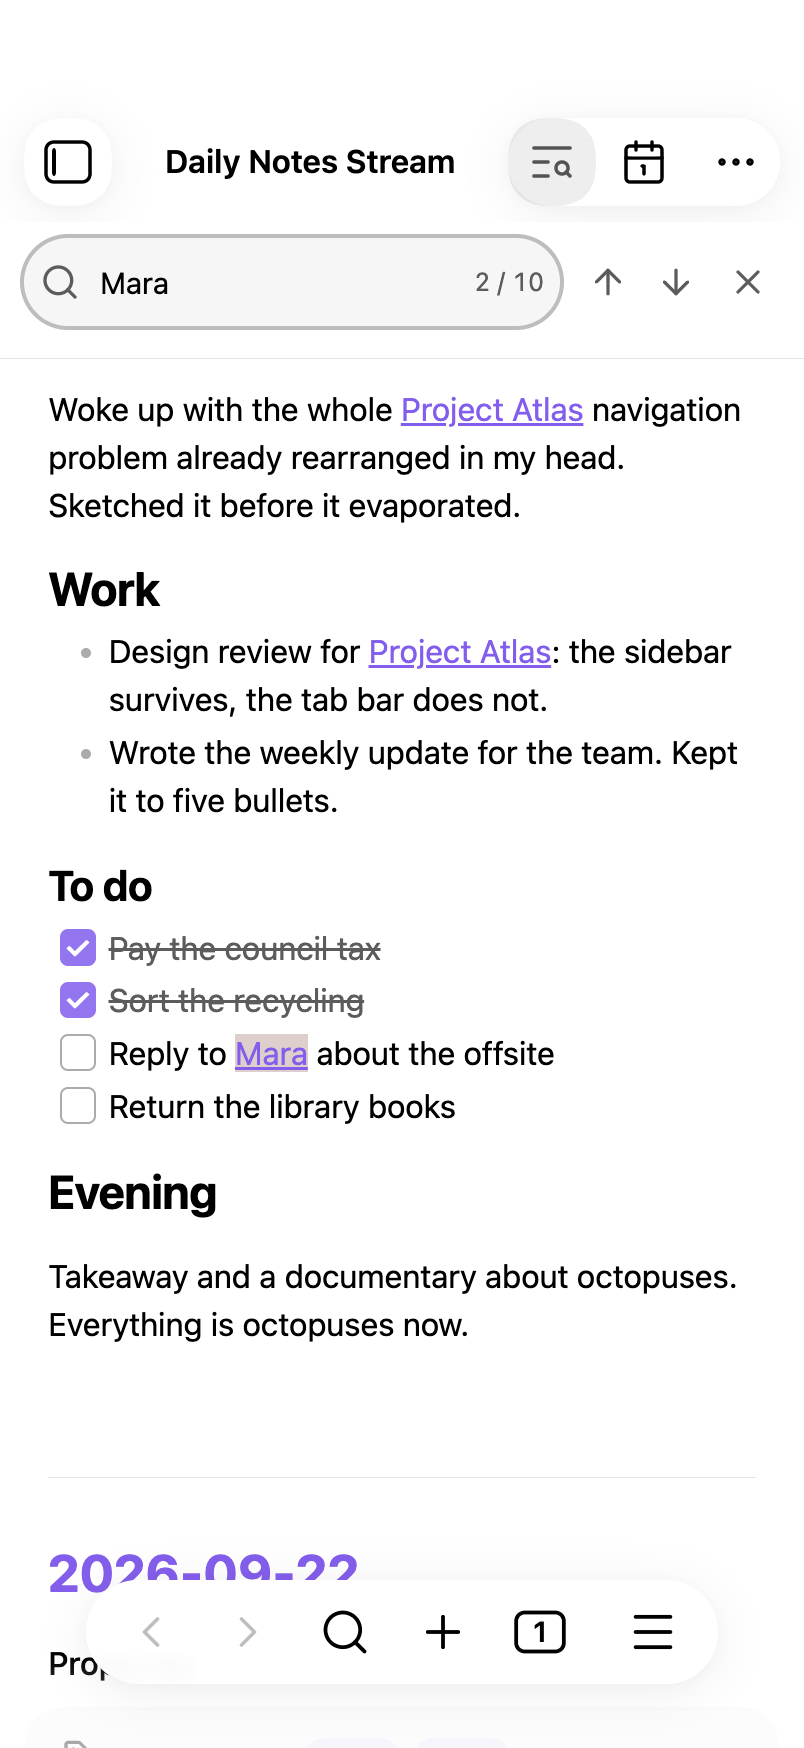
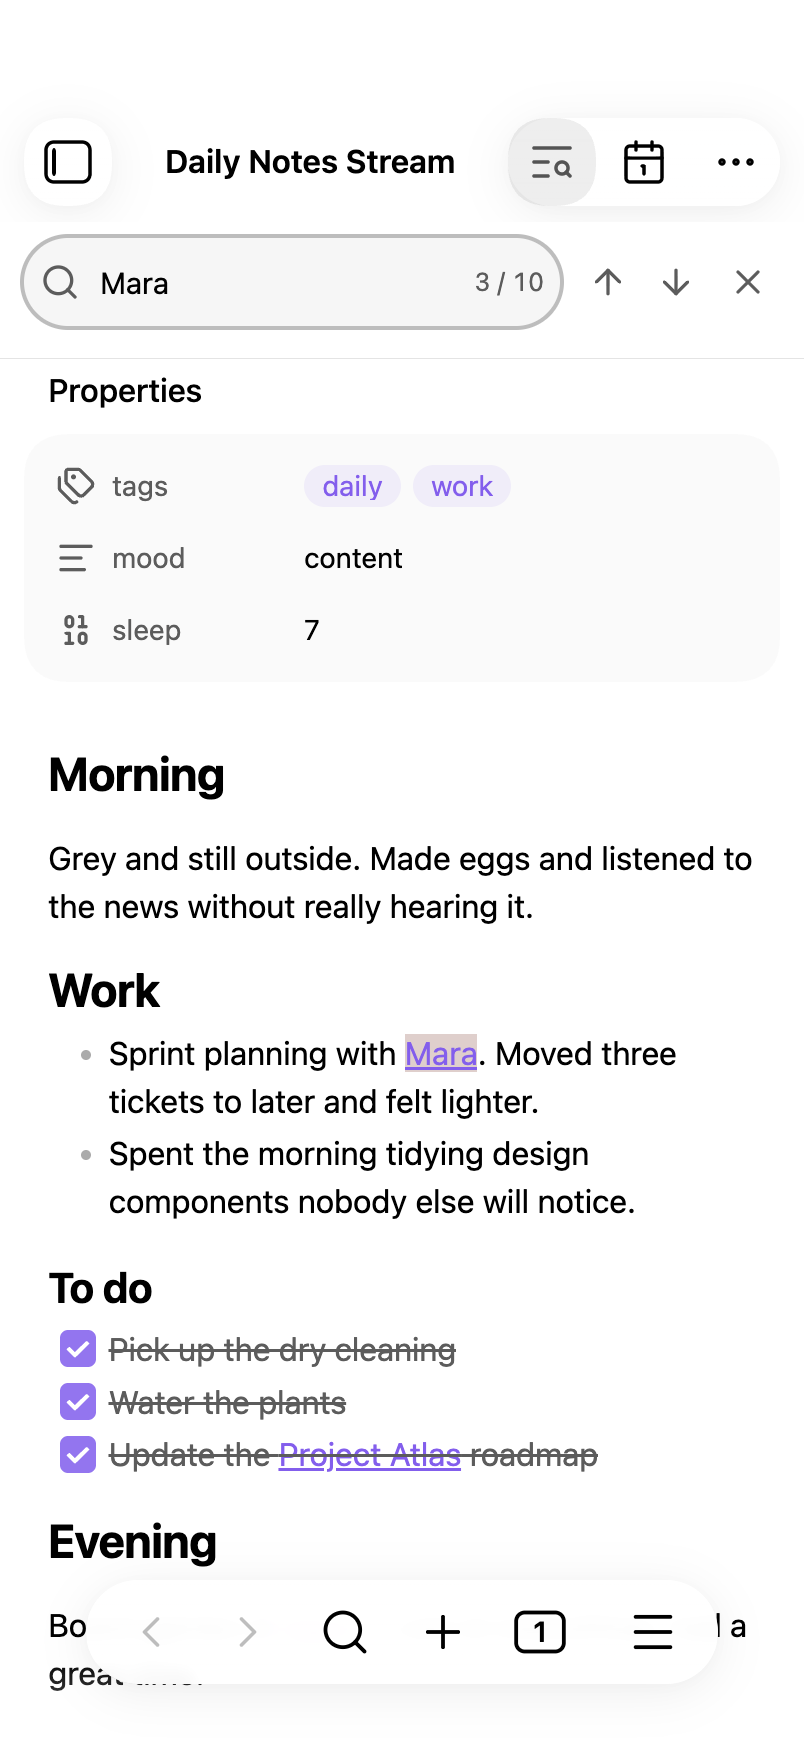
docs: show the README's stills as the stream's window, framed from a date
The stream itself leads in place of a Base; each desktop still is the
pane in a 904x960 window, from a note's date to its feature's end (D-126).

diff --git a/e2e-tests/screenshots.spec.ts b/e2e-tests/screenshots.spec.ts
@@ -1,7 +1,9 @@
-import type { Page, TestInfo } from "@playwright/test";
+import type { Locator, Page, TestInfo } from "@playwright/test";
 import { test, expect, openStream } from "./obsidian";
+import { tmpdir } from "os";
 import { join } from "path";
 import { OUT, prepareDemo, showLightTheme } from "./demo";
+import { windowStill } from "../scripts/window-still.mjs";
 
 /**
  * Captures the README's stills from the real app rather than a mockup, one per
@@ -22,50 +24,152 @@ async function showStream(page: Page): Promise<void> {
     await below.evaluate((block) => block.firstElementChild?.scrollIntoView({ block: "center" }));
 }
 
-async function capture(page: Page, name: string, testInfo: TestInfo): Promise<void> {
-    await page.waitForTimeout(1000);
-    const layout = testInfo.project.name === "mobile" ? "phone" : "desktop";
-    const path = join(OUT, `${name}-${layout}.png`);
-    if (layout === "phone") return void (await page.screenshot({ path }));
+/** One whole note, then the next one's date: notes stacked into a stream. */
+function streamFrame(page: Page): Frame {
+    return {
+        from: note(page, "Notes/2026-09-23.md").locator(".daily-note-header"),
+        to: note(page, "Notes/2026-09-22.md").locator(".daily-note-header"),
+    };
+}
 
-    const clip = await noteColumn(page);
-    const frame = await framed(page, clip);
-    try {
-        await page.screenshot({ path, clip });
-    } finally {
-        await frame.evaluate((el) => el.remove());
+/** Waits for the stream to stop scrolling: a search step glides to its match. */
+async function settled(page: Page): Promise<void> {
+    const pane = page.locator(".workspace-leaf.mod-active .daily-notes-stream-container").locator("..");
+    let last = NaN;
+    for (let top = await pane.evaluate((el) => el.scrollTop); top !== last;) {
+        last = top;
+        await page.waitForTimeout(200);
+        top = await pane.evaluate((el) => el.scrollTop);
     }
 }
 
-type Box = { x: number; y: number; width: number; height: number };
+/** One note, by path. */
+const note = (page: Page, path: string) => page.locator(`[data-source-path="${path}"]`);
 
-/** A border along `box`'s edges, drawn into the still (D-126). */
-async function framed(page: Page, box: Box) {
-    return page.evaluateHandle(({ x, y, width, height }) => {
-        const frame = document.body.appendChild(document.createElement("div"));
-        Object.assign(frame.style, {
-            position: "fixed",
-            left: `${x}px`,
-            top: `${y}px`,
-            width: `${width}px`,
-            height: `${height}px`,
-            boxSizing: "border-box",
-            border: "1px solid var(--background-modifier-border)",
-            pointerEvents: "none",
-            zIndex: "100000",
-        });
-        return frame;
-    }, box);
+/** A desktop still runs from `from`, at its top, to the end of `to` (D-126). */
+type Frame = { from: Locator; to: Locator };
+
+/** One still per layout; on desktop, `frame` sets what it shows, else the top of the column does. */
+async function capture(page: Page, name: string, testInfo: TestInfo, frame?: Frame): Promise<void> {
+    const layout = testInfo.project.name === "mobile" ? "phone" : "desktop";
+    const path = join(OUT, `${name}-${layout}.png`);
+    if (frame && layout === "desktop") await toTop(page, frame.from);
+    await page.waitForTimeout(1000);
+    if (layout === "phone") return void (await page.screenshot({ path }));
+
+    const column = await noteColumn(page);
+    if (frame) await fits(column, frame.to);
+    const pane = await page.locator(".workspace-split.mod-root").boundingBox();
+    if (!pane) throw new Error("the stream's pane is not on screen");
+    // The pane, its tab bar and header included, down to the column's end.
+    const clip = { x: Math.round(pane.x), y: Math.round(pane.y), width: Math.round(pane.width), height: HEIGHT };
+    // Unframed is the jump prompt, over the dimmed page: painting it over would show as a band.
+    const cover = await paintBelow(page, clip, frame ? await lastWholeLine(page, column) : clip.y + clip.height);
+    const raw = join(tmpdir(), `${name}-${layout}.png`);
+    try {
+        await page.screenshot({ path: raw, clip });
+    } finally {
+        await cover.evaluate((el) => el.remove());
+    }
+    await windowStill(raw, path, clip);
 }
 
-/** The top of the note column, from under the view's header so an open search bar shows (D-126). */
+/** The space above a still's first line and below its last, and every desktop still's height, its tab bar included: the longest frame's (D-126). */
+const MARGIN = 32;
+const HEIGHT = 960;
+/** The listing's window width, and exactly a still's height: Obsidian places a prompt by the window's height. */
+const WINDOW = { width: 904, height: HEIGHT };
+
+type Box = { x: number; y: number; width: number; height: number };
+
+/** The page's background over `box` below `bottom`, so a still ends on a whole line (D-126). */
+async function paintBelow(page: Page, box: Box, bottom: number) {
+    return page.evaluateHandle(
+        ({ box: { x, y, width, height }, bottom }) => {
+            const cover = document.body.appendChild(document.createElement("div"));
+            Object.assign(cover.style, {
+                position: "fixed",
+                left: `${x}px`,
+                top: `${bottom}px`,
+                width: `${width}px`,
+                height: `${Math.max(0, y + height - bottom)}px`,
+                background: "var(--background-primary)",
+                pointerEvents: "none",
+                zIndex: "100000",
+            });
+            return cover;
+        },
+        { box, bottom }
+    );
+}
+
+/**
+ * Scrolls `element` to a margin under the view's header, or under the search bar while it is open. With the
+ * wheel, as a reader would: a search step holds its match in place against a scroll set from script.
+ */
+async function toTop(page: Page, element: Locator): Promise<void> {
+    const leaf = page.locator(".workspace-leaf.mod-active");
+    const above = (await leaf.locator(".daily-notes-search").isVisible())
+        ? await leaf.locator(".daily-notes-search").boundingBox()
+        : await leaf.locator(".view-header").boundingBox();
+    const column = await leaf.locator(".daily-notes-stream-container").boundingBox();
+    if (!above || !column) throw new Error("the stream is not on screen");
+    const top = above.y + above.height + MARGIN;
+    await page.mouse.move(column.x + column.width / 2, top + 100);
+    await expect(async () => {
+        const off = (await element.boundingBox())!.y - top;
+        if (Math.abs(off) >= 1) await page.mouse.wheel(0, off);
+        await settled(page);
+        expect(Math.abs((await element.boundingBox())!.y - top)).toBeLessThan(1);
+    }).toPass();
+    // Off the note: a hovered property draws an outline.
+    await page.mouse.move(column.x + column.width + MARGIN / 2, top);
+}
+
+/** Fails unless `end`, and a margin under it, fit `column`: a frame that needs more raises HEIGHT. */
+async function fits(column: Box, end: Locator): Promise<void> {
+    const box = await end.boundingBox();
+    if (!box) throw new Error("the still's end is not on screen");
+    expect(box.y + box.height + MARGIN, "the frame's end, within the still").toBeLessThanOrEqual(
+        column.y + column.height
+    );
+}
+
+/** A margin under the last line `box` shows whole, or the next line's top if that comes sooner. */
+async function lastWholeLine(page: Page, box: Box): Promise<number> {
+    return page.evaluate(
+        ({ box, margin }) => {
+            const lines: DOMRect[] = [];
+            const walker = document.createTreeWalker(document.body, NodeFilter.SHOW_TEXT);
+            for (let node = walker.nextNode(); node; node = walker.nextNode()) {
+                if (!node.textContent?.trim() || node.parentElement?.closest(".view-header")) continue;
+                const range = document.createRange();
+                range.selectNodeContents(node);
+                lines.push(...range.getClientRects());
+            }
+            for (const el of document.querySelectorAll(":is(.view-content, .prompt) :is(img, svg, input, hr)"))
+                lines.push(el.getBoundingClientRect());
+            const shown = lines.filter(
+                (r) => r.height > 0 && r.right > box.x && r.left < box.x + box.width && r.bottom > box.y
+            );
+            const kept = shown.filter((r) => r.bottom <= box.y + box.height - margin);
+            const last = Math.max(...kept.map((r) => r.bottom));
+            const next = Math.min(...shown.filter((r) => r.top >= last).map((r) => r.top));
+            return Math.min(last + margin, next);
+        },
+        { box, margin: MARGIN }
+    );
+}
+
+/** The note column, from under the view's header so an open search bar shows, to the still's end (D-126). */
 async function noteColumn(page: Page): Promise<Box> {
     const leaf = page.locator(".workspace-leaf.mod-active");
+    const pane = await page.locator(".workspace-split.mod-root").boundingBox();
     const header = await leaf.locator(".view-header").boundingBox();
     const column = await leaf.locator(".daily-notes-stream-container").boundingBox();
-    if (!header || !column) throw new Error("the stream is not on screen");
-    const margin = 32;
-    return { x: column.x - margin, y: header.y + header.height, width: column.width + 2 * margin, height: 520 };
+    if (!pane || !header || !column) throw new Error("the stream is not on screen");
+    const y = header.y + header.height;
+    return { x: column.x - MARGIN, y, width: column.width + 2 * MARGIN, height: Math.round(pane.y) + HEIGHT - y };
 }
 
 test.describe("README screenshots", () => {
@@ -76,14 +180,23 @@ test.describe("README screenshots", () => {
         await prepareDemo(obsidian.page);
     });
 
+    // On desktop, a window a still's size at a Retina screen's scale, without the status bar, which would sit
+    // over the notes; the phone's stays its screen.
+    test.beforeEach(async ({ obsidian, mobileLayout }) => {
+        if (mobileLayout) return;
+        const { page } = obsidian;
+        const cdp = await page.context().newCDPSession(page);
+        await cdp.send("Emulation.setDeviceMetricsOverride", { ...WINDOW, deviceScaleFactor: 2, mobile: false });
+        await page.addStyleTag({ content: ".status-bar { display: none; }" });
+    });
+
     test.afterEach(async ({ obsidian }) => {
         await obsidian.page.keyboard.press("Escape");
     });
 
     test("the stream", async ({ obsidian }, testInfo) => {
-        test.skip(testInfo.project.name === "desktop", "on desktop the recording leads the README instead");
         await showStream(obsidian.page);
-        await capture(obsidian.page, "stream", testInfo);
+        await capture(obsidian.page, "stream", testInfo, streamFrame(obsidian.page));
     });
 
     test("the stream in dark mode", async ({ obsidian }, testInfo) => {
@@ -92,7 +205,7 @@ test.describe("README screenshots", () => {
         try {
             await expect(page.locator("body")).toHaveClass(/theme-dark/);
             await showStream(page);
-            await capture(page, "stream-dark", testInfo);
+            await capture(page, "stream-dark", testInfo, streamFrame(page));
         } finally {
             await showLightTheme(page);
         }
@@ -104,10 +217,21 @@ test.describe("README screenshots", () => {
         await page.locator('.view-action[aria-label="Search"]').click();
         const bar = page.locator(".daily-notes-search");
         await bar.locator("input").fill("Mara");
-        // Typing makes the first match current; the second is the one a step scrolls into view.
+        // Typing makes the first match current; two steps on is one in a note the other stills don't show.
         await page.keyboard.press("Enter");
-        await expect(bar.locator(".document-search-count")).toHaveText(/^2 \/ \d+$/);
-        await capture(page, "search", testInfo);
+        await page.keyboard.press("Enter");
+        await expect(bar.locator(".document-search-count")).toHaveText(/^3 \/ \d+$/);
+        await settled(page);
+        // From the match's date down to the list it is in.
+        await page.evaluate(() => {
+            const [match] = CSS.highlights.get("daily-notes-search-current")!;
+            const node = (match as Range).startContainer;
+            const line = node instanceof Element ? node : node.parentElement!;
+            line.closest("ul, ol, p")!.setAttribute("data-still-end", "");
+            line.closest(".daily-note-block")!.setAttribute("data-still-start", "");
+        });
+        const from = page.locator("[data-still-start] .daily-note-header");
+        await capture(page, "search", testInfo, { from, to: page.locator("[data-still-end]") });
     });
 
     test("jump to date", async ({ obsidian }, testInfo) => {
@@ -127,7 +251,8 @@ test.describe("README screenshots", () => {
         const mentions = container.locator(".daily-note-block").first().locator(".daily-note-mentions");
         await expect(mentions.locator(".daily-note-mention").first()).toBeVisible();
         await mentions.evaluate((footer) => footer.scrollIntoView({ block: "center" }));
-        await capture(page, "mentions", testInfo);
+        const from = container.locator(".daily-note-header").first();
+        await capture(page, "mentions", testInfo, { from, to: mentions });
     });
 
     test("collapsed sections", async ({ obsidian }, testInfo) => {
@@ -150,10 +275,13 @@ test.describe("README screenshots", () => {
             .locator(".daily-note-block")
             .first()
             .evaluate((block) => block.scrollIntoView({ block: "start" }));
-        await capture(page, "collapse", testInfo);
+        const blocks = container.locator(".daily-note-block");
+        const from = blocks.first().locator(".daily-note-header");
+        await capture(page, "collapse", testInfo, { from, to: blocks.nth(1).locator(".daily-note-header") });
     });
 
     test("a Base in a Sunday review", async ({ obsidian }, testInfo) => {
+        test.skip(testInfo.project.name === "desktop", "on desktop a Base looks as it does in Obsidian");
         const { page } = obsidian;
         const container = await openStream(page);
         // Only notes near the viewport are rendered: bring the block in, then its heading to the top.

diff --git a/docs/DECISIONS.md b/docs/DECISIONS.md
@@ -2134,22 +2134,28 @@ new tags, and no reader ran a `0.x` draft.
 - Recreating the `0.x` tags — they would mark releases nobody outside the
   project ran.
 
-## D-126 — The README's desktop stills crop to the note column (2026-10-12)
+## D-126 — The README's desktop stills show the stream's window (2026-10-12, reframed 2026-10-19)
 
-**Decision:** each desktop still is the top 520 px of the note column, from
-under the view's header, with a 32 px margin and a 1 px border, shown 800 px
-wide, as the recording above them is.
+**Decision:** each desktop still is the stream's pane, tab bar and header
+included, in a 904 px window as the listing's cards use, 960 px tall, shown as a
+window: rounded corners, a hairline edge, a soft shadow
+(`scripts/window-still.mjs`). Each runs from a note's date to the end of what it
+shows; below its last whole line, the page's background is painted. The first
+still is the stream itself: one whole note, the divider, the next note's date.
 
-**Why:** the whole 1024 px window, shown 440 px wide, put its text at 43% of its
-size, too small to read; cropped, it shows at 105%, and the stills line up with
-the recording. The recording above them already shows the window. Without the
-border, a light still runs into GitHub's white page.
+**Why:** the README is there to win readers over. A window reads as Obsidian at
+a glance, and a still that starts on a date and holds its feature whole reads as
+a daily note, not a fragment. One height lines the stills up; 960 px fits the
+longest, linked mentions. Shown 800 px wide, text is at 88%.
 
 **Rejected:**
 
-- The whole window, shown wider — 78% text needs 800 px, and six stills that
-  tall double the README's length.
-- A smaller window — Obsidian's narrow layout, not the one readers see.
+- The note column alone — reads as a fragment, not the app.
+- A 1024 px window — at 800 px wide its text shrinks to 78%.
+- 520 px, the top of the column — cut the date off most stills and lines in
+  half.
+- A height per still — the stills stop lining up.
+- A Base as the first still — a reader sees a feature few use, not the stream.
 
 ## D-127 — The daily-notes settings are read without a library (2026-10-12)
 

diff --git a/.claude/rules/captures.md b/.claude/rules/captures.md
@@ -26,9 +26,9 @@ pnpm run capture:listing       # the directory listing's desktop and mobile card
   lays the raw captures in `.dev/listing/raw/` out as 2400x1600 desktop cards
   and 900x1600 mobile ones.
 
-- The desktop stills are the top of the note column, framed; the desktop
-  recording shows the window (D-126). The transparent e2e window lays out at 1x,
-  not the display's scale.
+- The desktop stills are the stream's pane in a 904 px window, 960 px tall, each
+  from a date, framed as a window by `scripts/window-still.mjs`; the desktop
+  recording shows the window (D-126).
 - The recordings are animated WebPs: they need `img2webp` (`brew install webp`);
   the phone's capture needs `swift` (Xcode). D-116 has why.
 - The phone's screen is captured over USB from before Appium connects: starting

diff --git a/README.md b/README.md
@@ -46,7 +46,7 @@ To find the stream waiting each time you start Obsidian, pin its tab: right-clic
 
 Each note is shown in full, as it looks in Obsidian's reading view, with its properties, images, tables, embeds, links, tasks, and Bases. The stream is read-only, so clicking a task's checkbox doesn't tick it. Open the note to edit it. Some content is reshaped so the stream scrolls smoothly, mostly on a phone or tablet. See [Phone and tablet](#phone-and-tablet).
 
-<img src="docs/images/bases-desktop.png" alt="A weekly review embedding a reading-list Base" width="800">
+<img src="docs/images/stream-desktop.png" alt="The end of one daily note and the start of the next, its date and properties, in the stream" width="800">
 
 ### Empty notes
 
